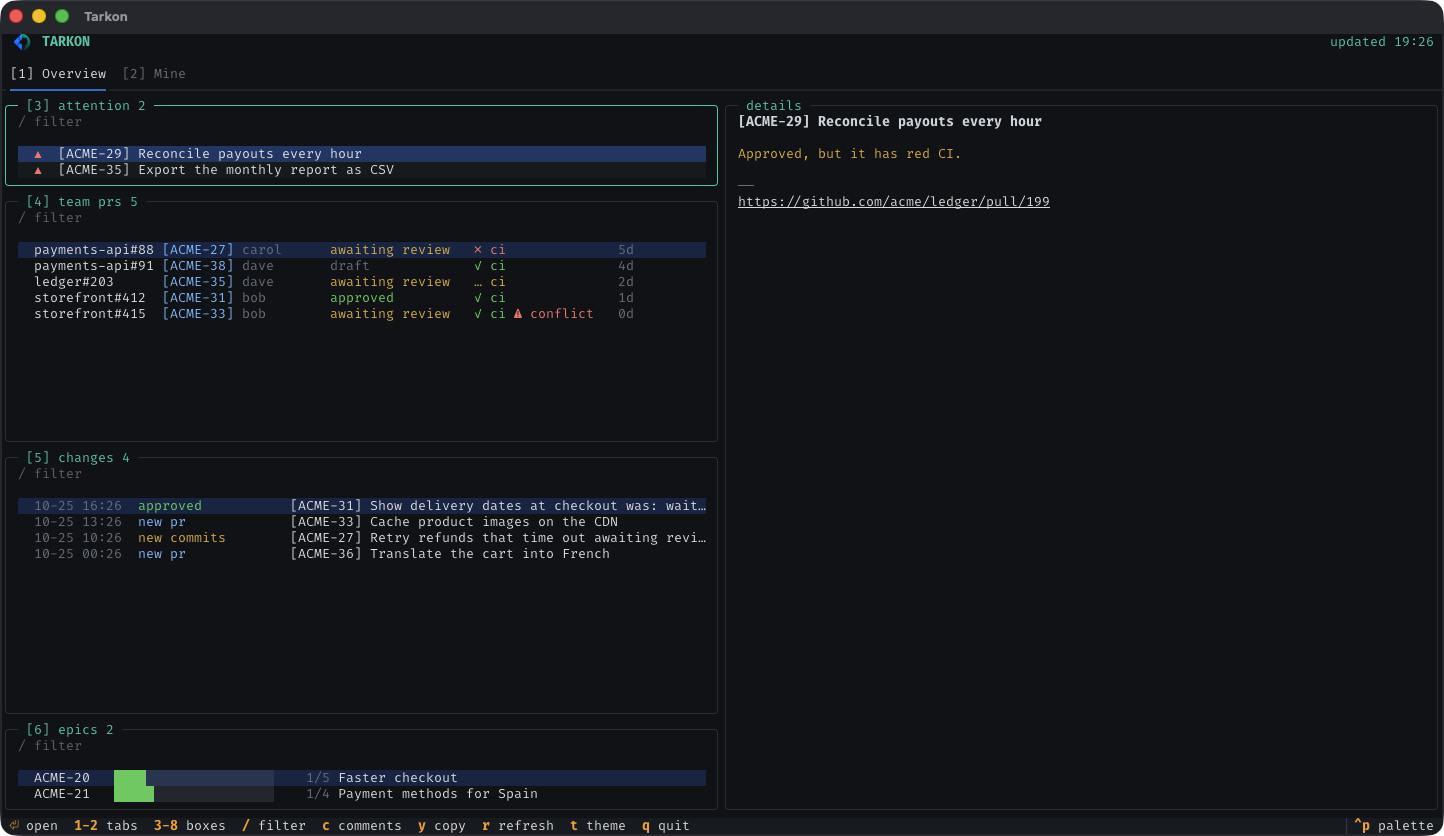
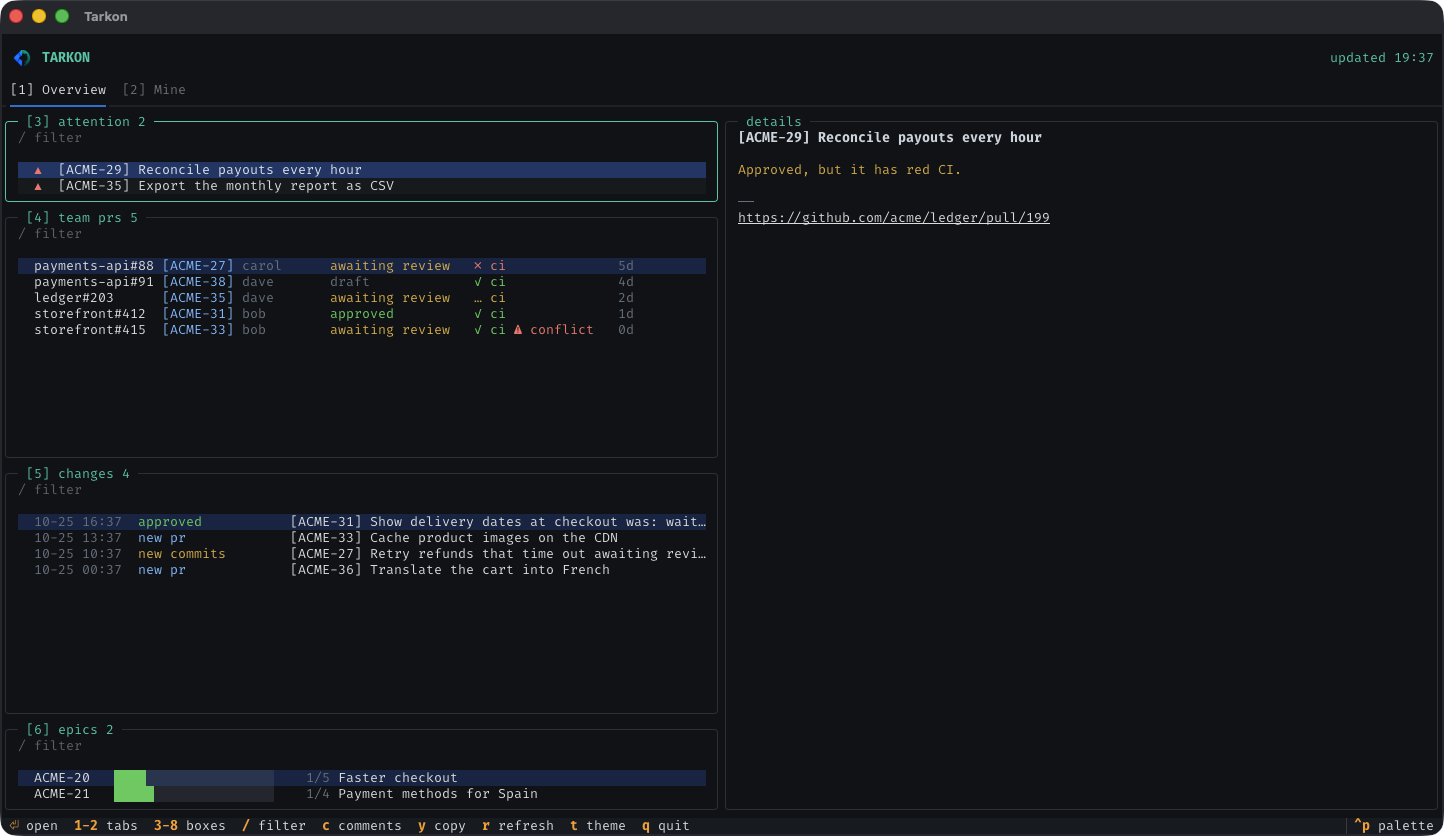
leave a row above the default theme's header
Release 0.1.2.

diff --git a/tests/tui/test_theme.py b/tests/tui/test_theme.py
@@ -37,6 +37,7 @@ async def lcars_theme(cache):
         assert not any(app.query_one(f"#{name}").display for name in ("elbow", "bar", "sidebar", "condition", "pills")), "the default theme has no LCARS frame"
         assert app.query_one(Tabs).display, "the default theme keeps its tabs"
         assert app.query_one("#top #logo").display and not app.query_one("#elbow-logo").display, "the default theme keeps its logo in the masthead"
+        assert app.query_one("#top").region.y == 1, "the default theme leaves a row above its header"
         assert not any(app.query_one(f"#{name}").display for name in ("footcap", "foot-cap")) and app.query_one(Footer).region.x == 0, \
             "the default theme keeps its footer"
         assert not any(title.display for title in app.query(".ptitle")), "the default theme keeps its bordered titles"
